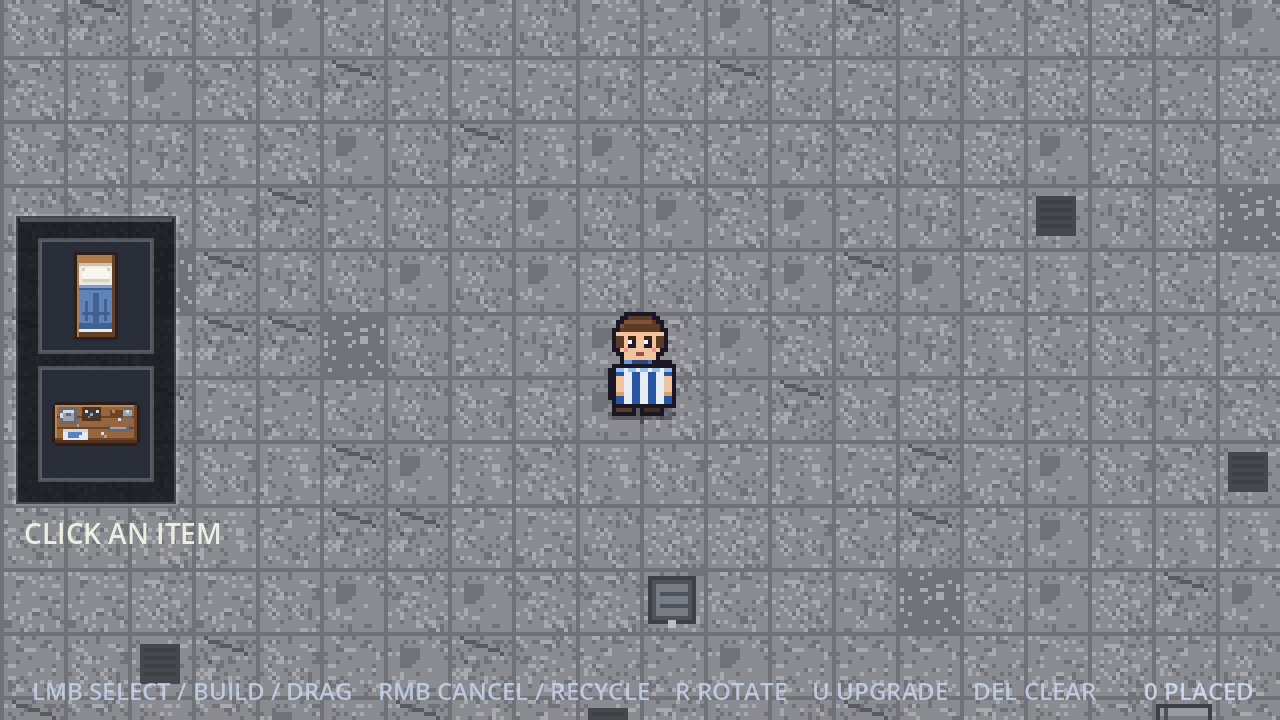
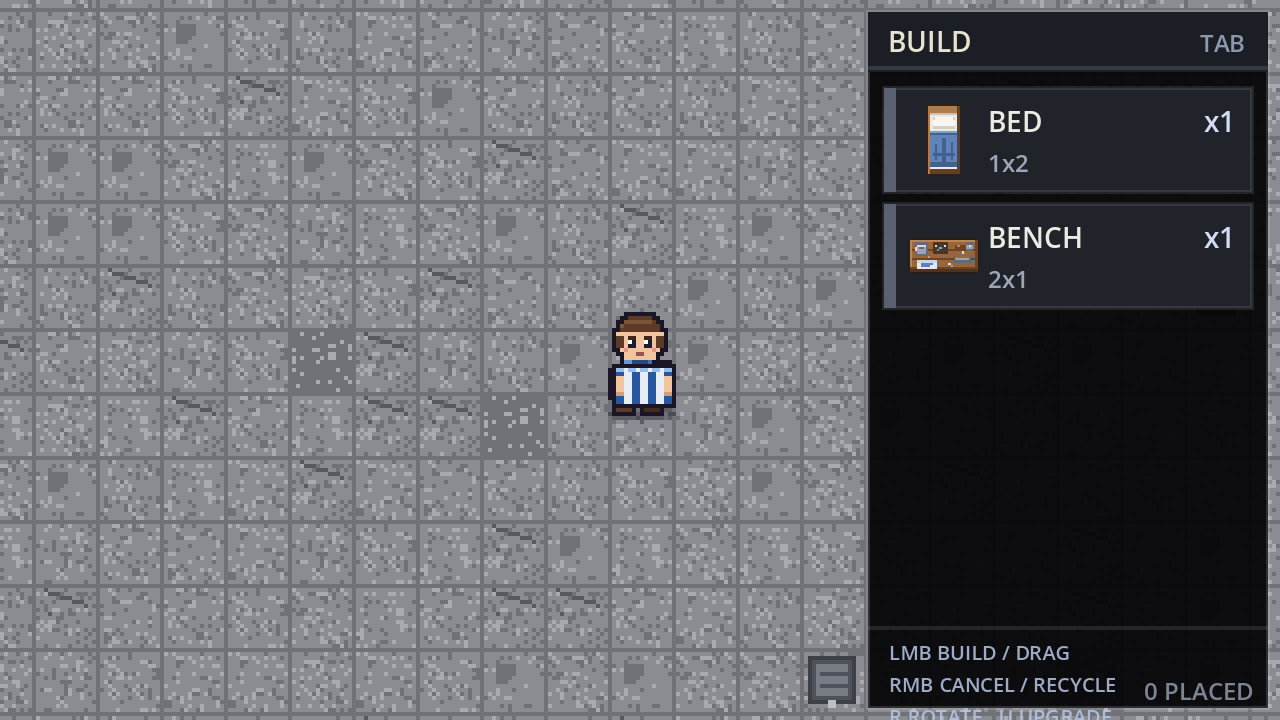
feat: 建造界面改成右侧黑色商店式面板（标题栏 + 物品行 + 底部提示）

diff --git a/README.md b/README.md
@@ -590,8 +590,9 @@ after 3.5s-> 0 只（确认不再刷）
   **面朝上（背对镜头）时图纸抱在身前、被身体挡住，只从身体两边露出一点纸边**
   （背影帧用无手身体并清掉多余肤色，肩膀和腰带上不会有奇怪的肉色像素）；
   退出建造模式再换回空手。
-- **进建造模式不预选家具**：按 Tab 只弹出**左侧竖着的家具面板**（图标竖排，选中的高亮成红色，
-  面板下方显示 `BED x1` 这样的数量），用**鼠标左键点槽位**选了某件
+- **进建造模式不预选家具**：按 Tab 在**右侧弹出黑色建造面板**（标题栏 `BUILD` + 已放置数量，
+  下面一行件家具：图标 / 名字 / 库存 `xN` / 占地 `1x2`，选中的整行变红 + 左侧黄条，
+  面板底部是 3 行操作提示），用**鼠标左键点槽位**选了某件
   家具才会出现跟随鼠标的放置预览；**放下一件后会自动取消选中**，想继续摆要再点一次槽位。
   **取消选中 = 鼠标右键点空地**（右键指着家具则是回收）。数字键 1 仍可选，只是界面不再显示数字。
 - **按 Tab 进 / 出建造模式**：不按 Tab 时就是纯走路，底部只有一行 `TAB - BUILD` 提示；
@@ -631,8 +632,7 @@ after 3.5s-> 0 只（确认不再刷）
     想多摆就靠工作台按 E 造；
   - 布局 + 库存都存进 `user://base_layout.json`。
 - `base_builder.gd`：
-  - 鼠标左键点左侧竖面板里的图标选中，右键空地取消；鼠标位置显示半透明预览（白色可放、红色不可放）；
-  - 底部只留一行操作提示和 `N PLACED` 数量；
+  - 鼠标左键点右侧面板里的条目选中，右键空地取消；鼠标位置显示半透明预览（白色可放、红色不可放）；
   - **左键**放置、**右键**拆除、**U** 升级（最高 3 级，底部小方块表示等级）；
   - 全部按 **16px 格子**对齐；鼠标在平台格子外（比如飘到外面的城市上）时预览直接隐藏，
     不会出现"摆在地图外"的假象；女儿墙 / 楼顶设备瓦片（舱口/空调/通风口）上不能放；
